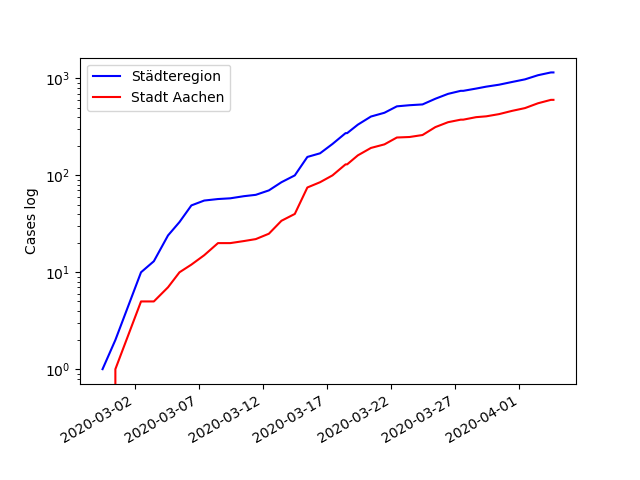
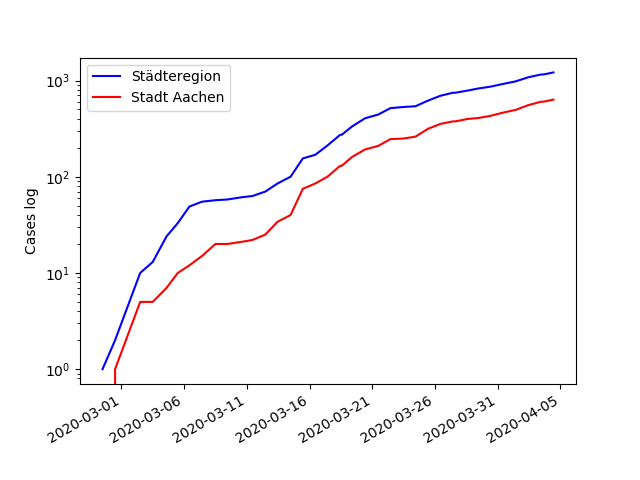
Covid19 udpate fixed

diff --git a/content/blog/Covid19/index.md b/content/blog/Covid19/index.md
@@ -1,6 +1,6 @@
 --- 
  title: Covid19 in Aachen (Stadt und Städteregion) 
- date: "2020-04-03T21:02:39.000Z" 
+ date: "2020-04-04T11:39:31.000Z" 
 --- 
 The city of Aachen publishes (more or less) daily updates about Covid19. It's in the form of a daily press release, so I decided to collect this data to make it more usable for further processing ([google spread sheet](https://docs.google.com/spreadsheets/d/1Th4GSgmTpX4GtcebVDzIfRuCOu2cSOc2WJCORHcCw-Y)).
 
